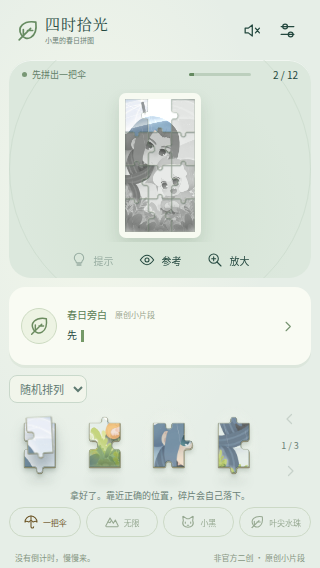
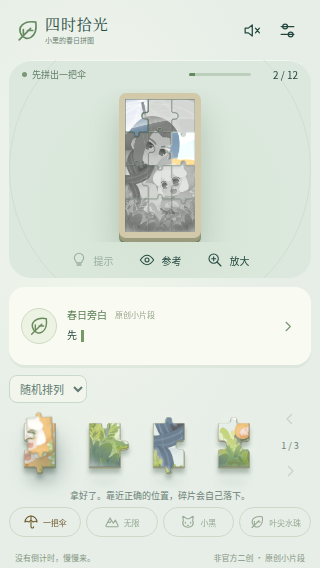
fix: restore cardboard styles and rapid touch controls

diff --git a/web/src/main.jsx b/web/src/main.jsx
@@ -62,9 +62,20 @@ function useMedia(query) {
   }, [query]);
   return matches;
 }
-function Tool({ icon, children, ...props }) {
+function Tool({ icon, children, onClick, ...props }) {
+  // Handle touch release directly: a rapid tap after a drag may have no native
+  // compatibility click. Mouse and keyboard keep their normal click behavior.
+  function touchUp(event) {
+    if (props.disabled || event.pointerType !== "touch") return;
+    const rect = event.currentTarget.getBoundingClientRect();
+    if (event.clientX >= rect.left && event.clientX <= rect.right &&
+        event.clientY >= rect.top && event.clientY <= rect.bottom) onClick?.(event);
+  }
   return (
-    <button className="tool" {...props}>
+    <button className="tool" {...props} onPointerUp={touchUp}
+      onClick={(event) => {
+        if (event.detail === 0 || event.nativeEvent.pointerType !== "touch") onClick?.(event);
+      }}>
       <Icon name={icon} />
       {children && <span>{children}</span>}
     </button>

diff --git a/web/src/style.css b/web/src/style.css
@@ -1443,6 +1443,7 @@ progress::-moz-progress-bar {
   .story-effect > * {
     opacity: 0.8;
   }
+}
 
 /* Optional cardboard material: same puzzle geometry, with a cut edge and a seat. */
 .floating-surface { width: 100%; height: 100%; }
